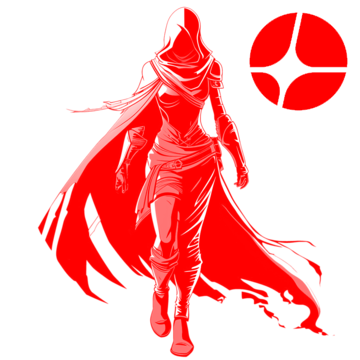
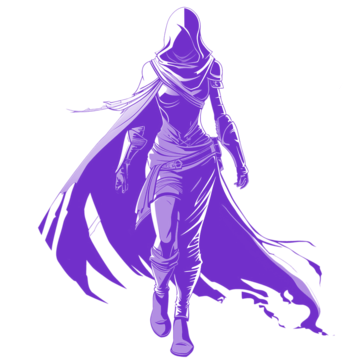
ip

diff --git a/index.html b/index.html
@@ -73,7 +73,7 @@
                             </div>
                             <div class="de-flex-col">
                                 <div class="menu_side_area">
-                                    <a href="https://pancakeswap.finance/swap?inputCurrency=BNB&outputCurrency=0x551f752A600f6Ce182224bbD4ea2FADaABC31DA4" target="_blank"
+                                    <a href="https://pancakeswap.finance/swap?inputCurrency=BNB&outputCurrency=0x2b3439fc69cae6fdce8276ac52fd0f38ee146072" target="_blank"
                                         class="btn-line" style="font-family: 'Year One', sans-serif;">Buy $MIKA</a>
                                     <span id="menu-btn"></span>
                                 </div>
@@ -90,8 +90,8 @@
             <!-- float text begin -->
             <div class="float-text">
                 <div class="de_social-icons">
-                    <a href="https://t.me/RoseOnBNB"><i class="fa fa-telegram fa-lg"></i></a>
-                    <a href="https://x.com/RoseOnBNB"><i class="fa fa-twitter fa-lg"></i></a>
+                    <a href="https://t.me/grokmika"><i class="fa fa-telegram fa-lg"></i></a>
+                    <a href="https://x.com/grokmika"><i class="fa fa-twitter fa-lg"></i></a>
 
                 </div>
                 <span><a href="#contact" style="font-family: 'Year One', sans-serif;">Contact Us</a></span>
@@ -107,7 +107,7 @@
                     
                     
                 </video> -->
-                <img class="jarallax-img" src="main.gif" 
+                <img class="jarallax-img" src="banner.png" 
                     style="background-repeat: no-repeat; background-size: cover; background-attachment: fixed; width: 100%; height: 100vh;">
                     
                     
@@ -141,13 +141,13 @@
 
                         
                         <div class="col-lg-12 text-center">
-                           <a href="https://pancakeswap.finance/swap?inputCurrency=BNB&outputCurrency=0x551f752A600f6Ce182224bbD4ea2FADaABC31DA4" target="_blank" class="btn-main big wow fadeInLeft"
+                           <a href="https://pancakeswap.finance/swap?inputCurrency=BNB&outputCurrency=0x2b3439fc69cae6fdce8276ac52fd0f38ee146072" target="_blank" class="btn-main big wow fadeInLeft"
                                 style="font-family: 'Year One', sans-serif;"> Buy $MIKA </a>
                             
                         </div>
                         <div class="col-lg-12 text-center">
                            <span style="font-family: 'Year One', sans-serif; color:#ffffff;"> <br>ca:
-                                    0x551f752A600f6Ce182224bbD4ea2FADaABC31DA4</span>
+                                    0x2b3439fc69cae6fdce8276ac52fd0f38ee146072</span>
                             
                         </div>
                     </div>
@@ -206,7 +206,7 @@
 
                             </p>
                             <p class="lead big wow fadeInUp" style="font-family: 'Year One', sans-serif;">
-                                I am Rose, Aster's long-lost sister, born in the heart of the web3 realm. <br> Now reunited with my brother Aster, my light is beginning to radiate.
+                                I am Mika, Grok Companion. <br>
                             </p>
                             
                             <p class="lead big wow fadeInUp" style="font-family: 'Year One', sans-serif; padding-top: 50px;">
@@ -219,7 +219,7 @@
                             </p>
                         </div>
                         <div class="col-lg-4">
-                            <a href="https://x.com/Aster_DEX/status/1970661494699548885" target="_blank"><img src="/twitter.png" style="max-width: 500px; width: 100%;"/></a>
+                            <a href="https://x.com/isaaaaaaalt/status/1981669289502634196" target="_blank"><img src="/twitter.png" style="max-width: 500px; width: 100%;"/></a>
                         </div>
                     </div>
                 </div>
@@ -288,7 +288,7 @@
                     }
                 </style>
                 <div id="dexscreener-embed"><iframe
-                        src="https://dexscreener.com/bsc/0x551f752A600f6Ce182224bbD4ea2FADaABC31DA4?embed=1&amp;theme=dark"></iframe>
+                        src="https://dexscreener.com/bsc/0x2b3439fc69cae6fdce8276ac52fd0f38ee146072?embed=1&amp;theme=dark"></iframe>
                 </div>
             </section>
 
@@ -317,8 +317,8 @@
 
                     <div class="col-lg-4 text-lg-start text-sm-center">
                         <div class="social-icons">
-                            <a href="https://t.me/RoseOnBNB"><i class="fa fa-telegram fa-lg"></i></a>
-                            <a href="https://x.com/RoseOnBNB"><i
+                            <a href="https://t.me/grokmika"><i class="fa fa-telegram fa-lg"></i></a>
+                            <a href="https://x.com/grokmika"><i
                                     class="fa fa-twitter fa-lg"></i></a>
 
 
